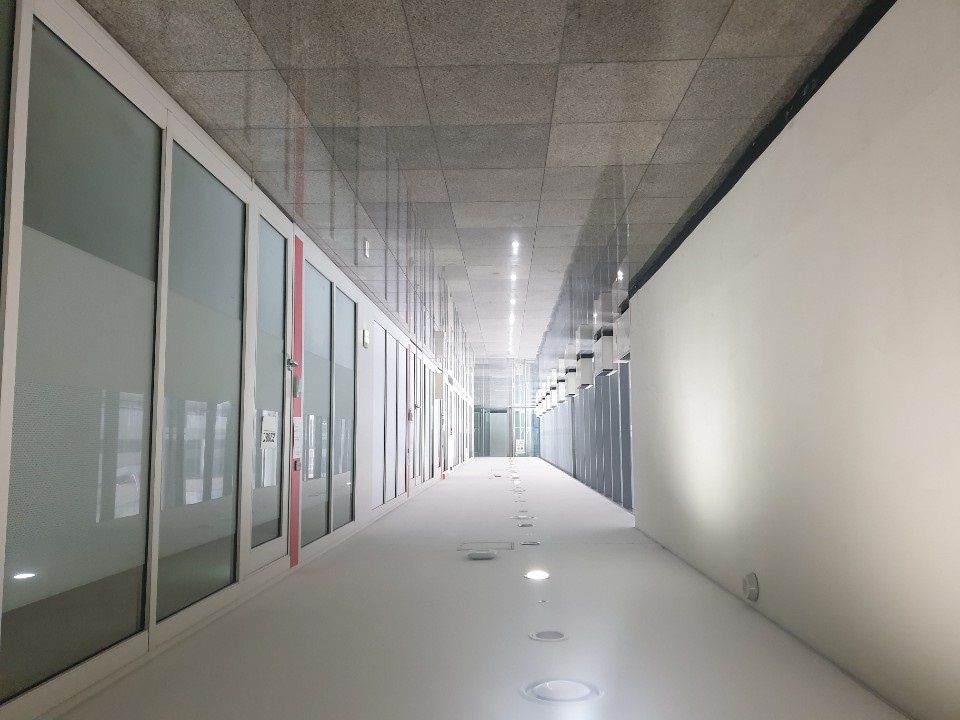
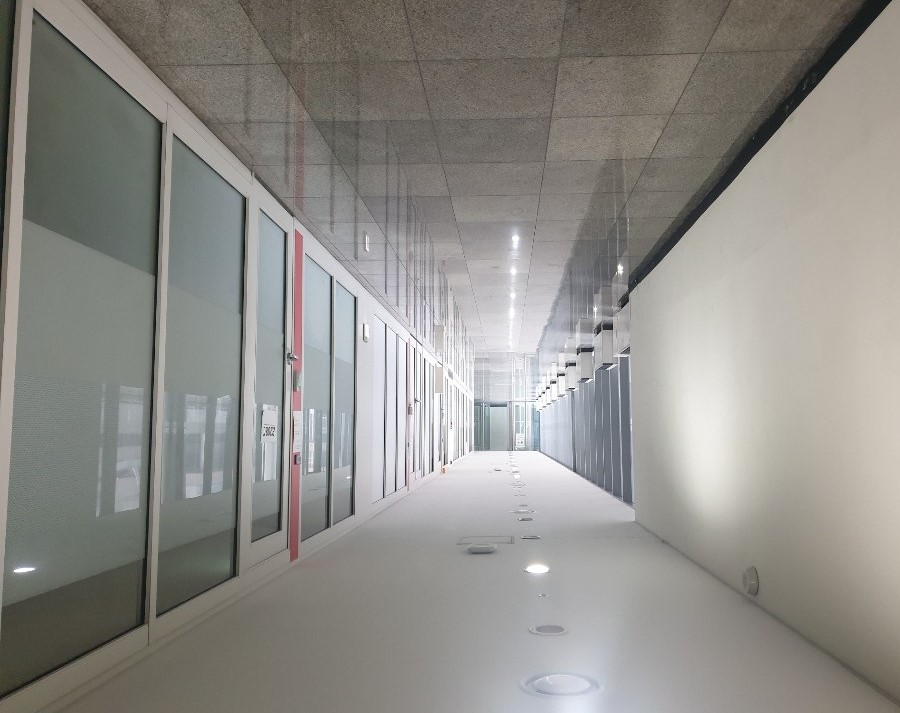
Wall Image Change

diff --git a/강의실 나들이/CLASS/JHJ.js b/강의실 나들이/CLASS/JHJ.js
@@ -205,7 +205,7 @@ function drawAisle(B208D) {
         makeWall7(100.6, 0.6, 50.6, 803.5, -70 + 100 * 2, -25 + 50 * j, 'Aisle_wall.png');
     }
     //옆판
-    makeWall7(200.6, 0.6, 504.6, 1050, 80 ,200,'Aisle_wall.png');
+    makeWall7(200.6, 0.6, 504.6, 1050, 80 ,200,'Aisle_wall_color.png');
     //붙는판
     makeWall7(200.6, 0.6, 204.6, 805, 80 ,350,'Aisle_Attach.jpg');
     //나가는쪽 붙는판
@@ -216,6 +216,7 @@ function drawAisle(B208D) {
             makeGround(50.6, 0.6, 50.6, 800.5 + 50 * i, -15, 0 + 50 * j);
         }
     }
+    
     //천장
     makeWall8(250.6, 0.6, 504.6, 928.5, 178 ,200,'Aisle_ground.jpg');
     //입구
